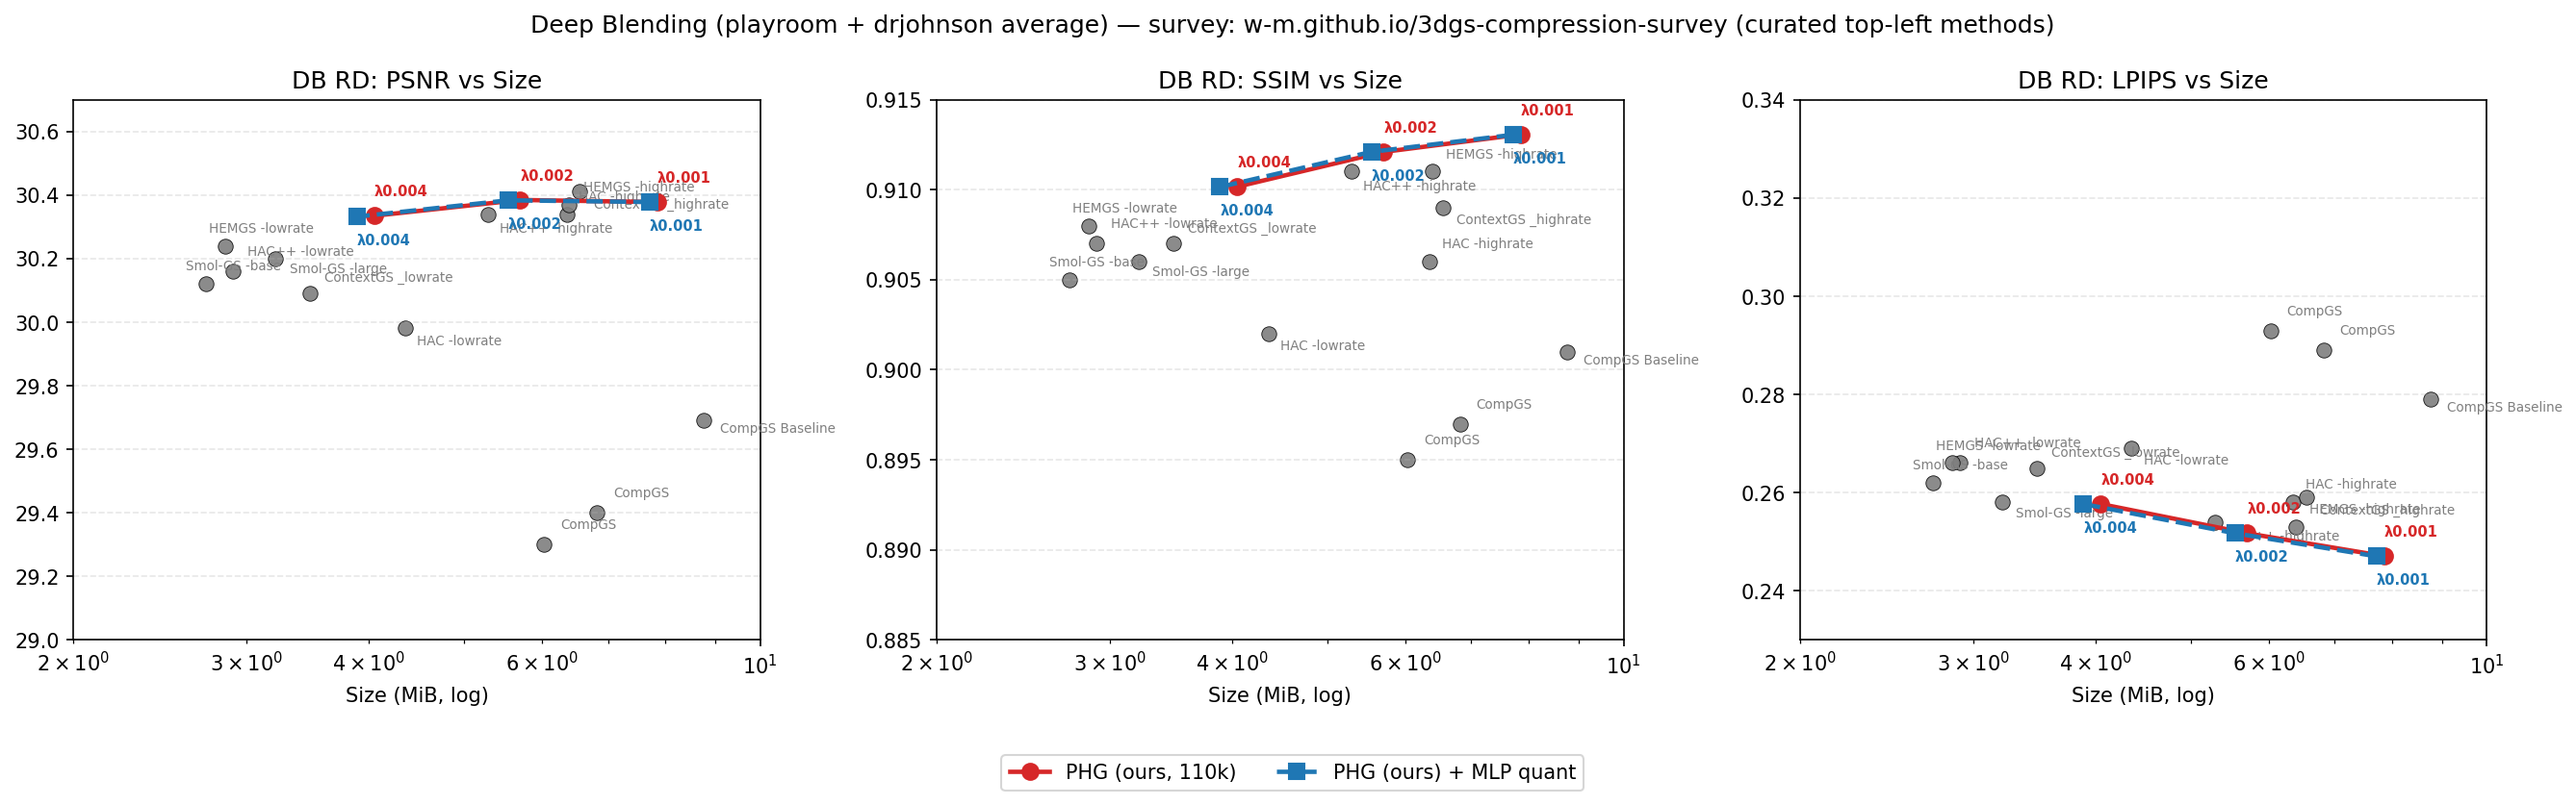
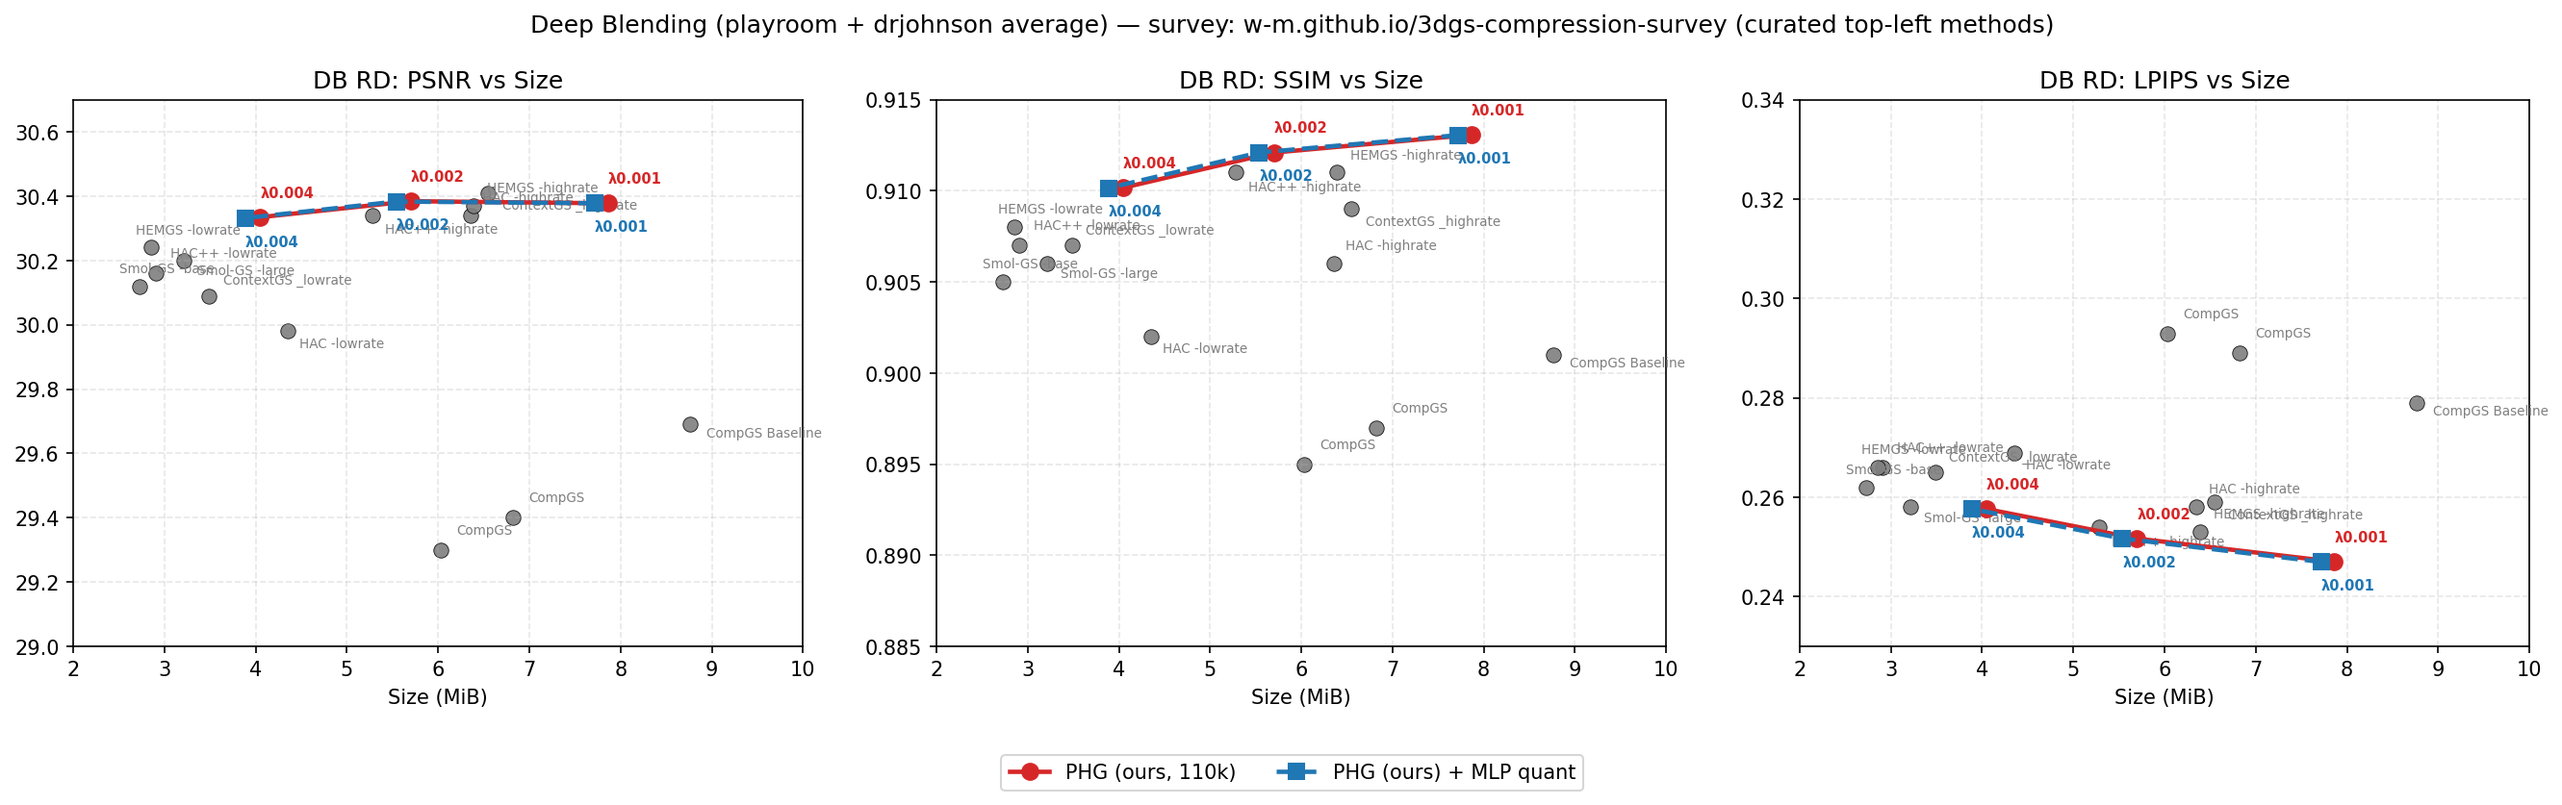
DB RD plot: linear size axis (curated methods are same-scale)

diff --git a/scripts/plot_db_rd.py b/scripts/plot_db_rd.py
@@ -133,8 +133,7 @@ def main() -> None:
         ("lpips", "LPIPS (lower is better)", LPIPS_LIM),
     ]
     for ax in axes:
-        ax.set_xlabel("Size (MiB, log)")
-        ax.set_xscale("log")
+        ax.set_xlabel("Size (MiB)")
         ax.set_xlim(*X_LIM)
         ax.grid(alpha=0.3, linestyle="--")
 
